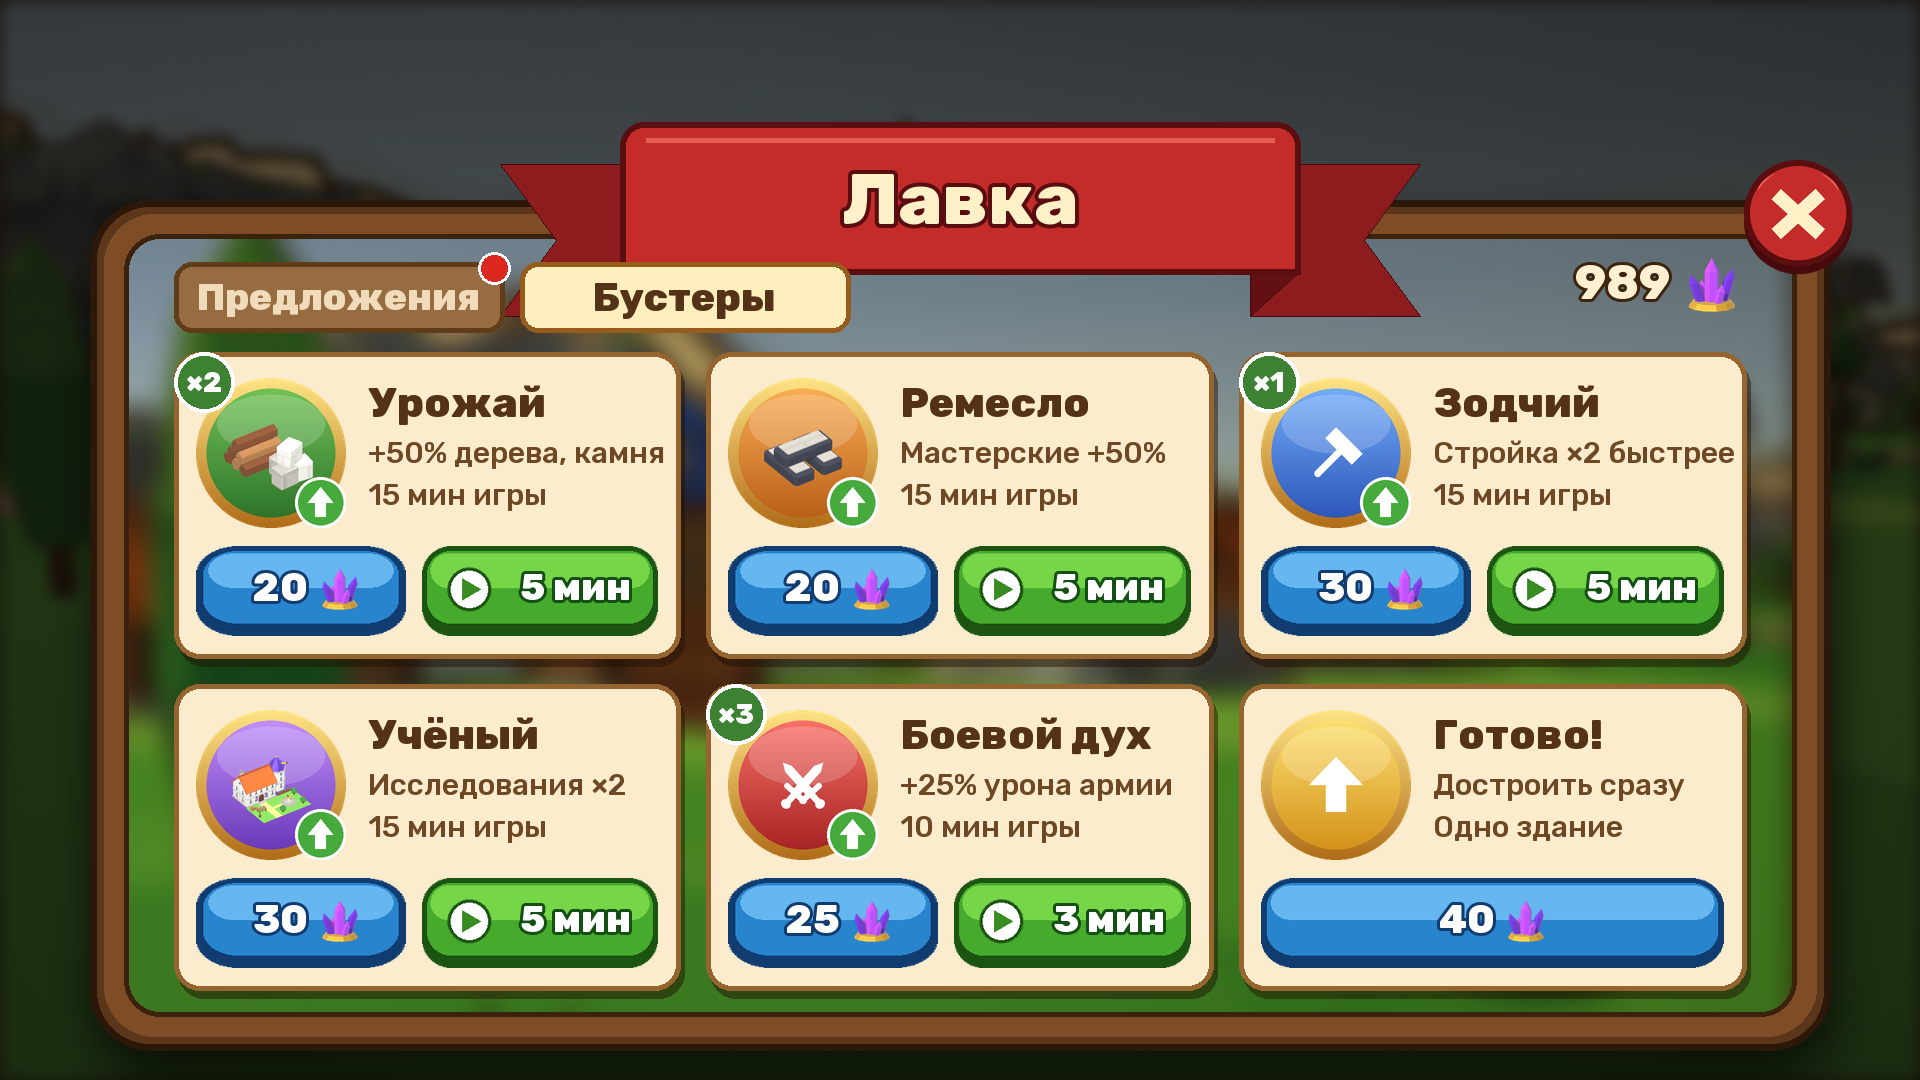
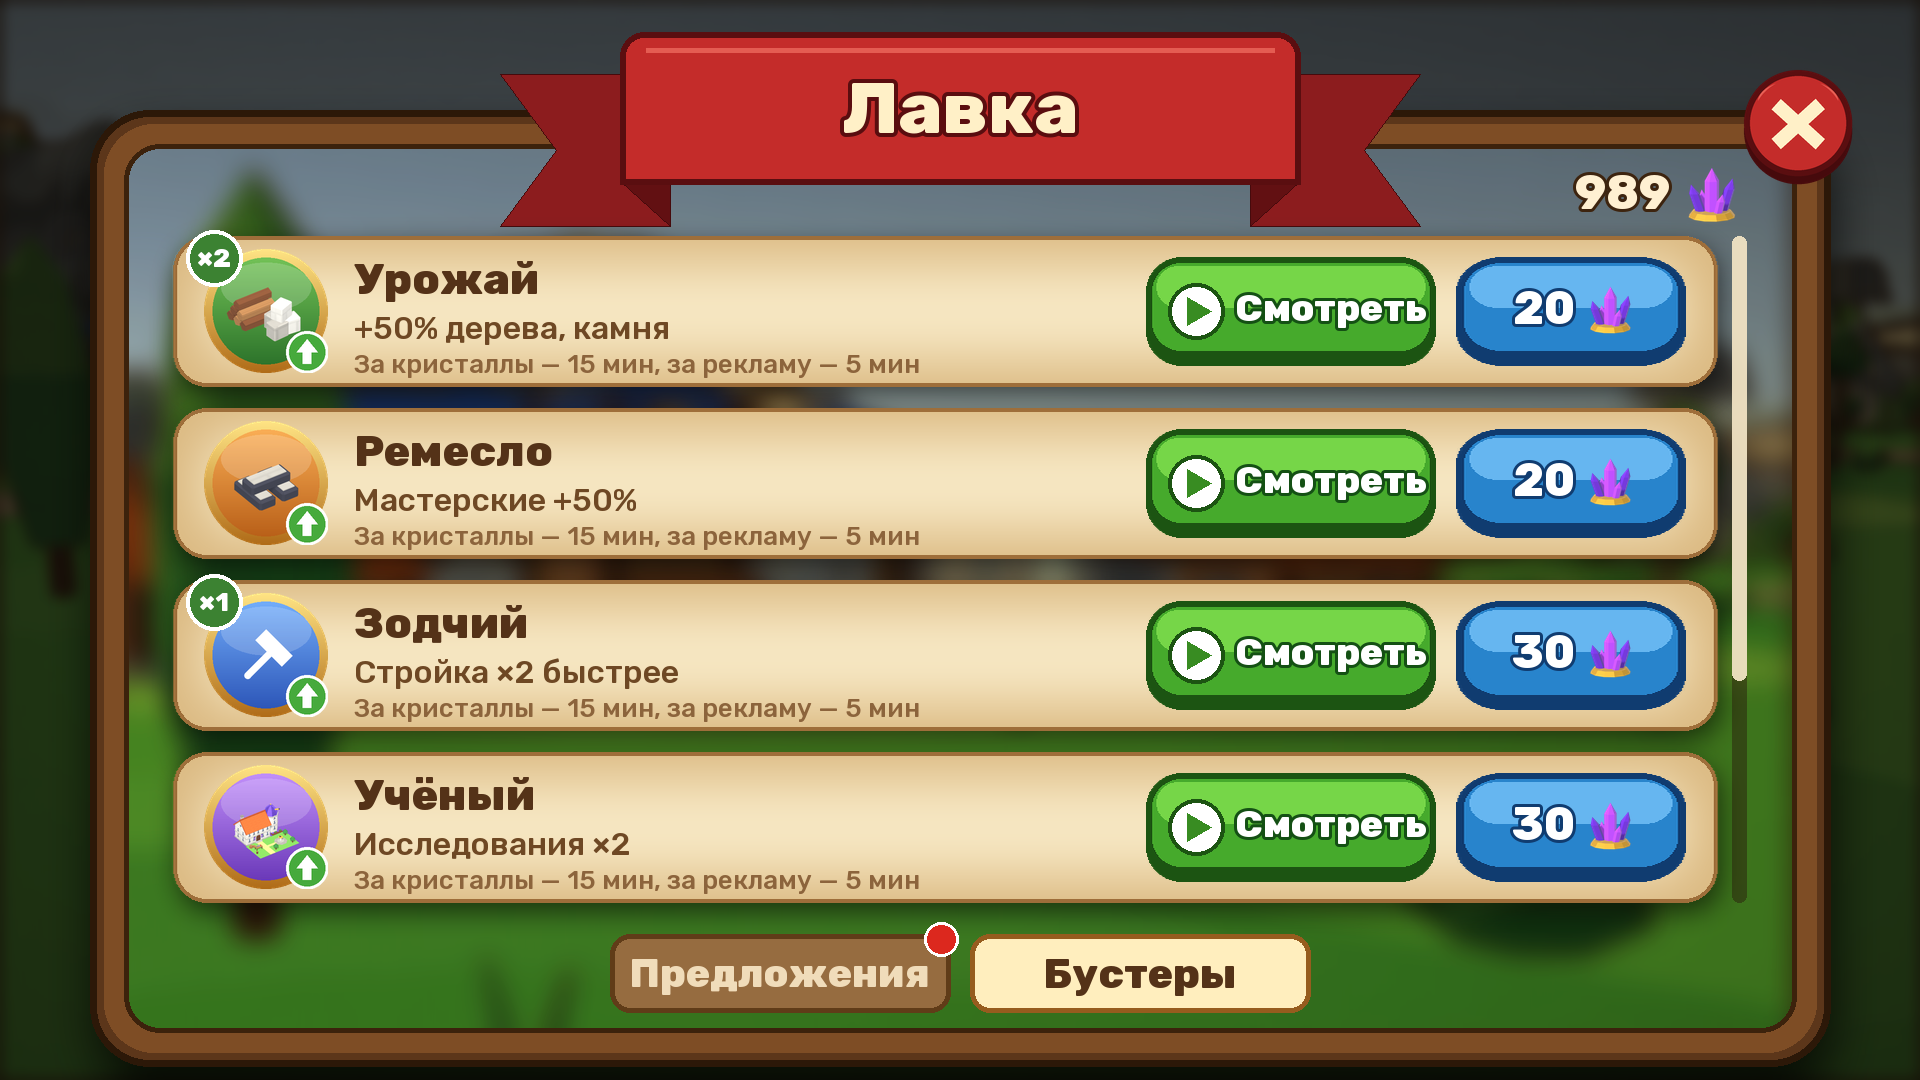
Boosters shop concept v2 (the user): taller window, tabs at the bottom centre, boosters as long strips, «▶ Смотреть» with the durations spelled out

diff --git a/Tools/store/booster_mockup.py b/Tools/store/booster_mockup.py
@@ -83,79 +83,94 @@ def backdrop(W, H):
 
 # ------------------------------------------------------------------ 1. the shop's «Бустеры» tab
 
+TALL_Y0, TALL_Y1 = 110, 1066       # the taller shop window (the user, 2026-11-11: tabs at the bottom)
+
+
+def tall_window(theme='summer'):
+    """The shop's frame drawn by offer_shop_art.window() at the taller size, into the scratch folder --
+    only that function is run (the art script writes the game's pictures when run whole)."""
+    src = open(m.R + 'Tools/store/offer_shop_art.py', encoding='utf-8').read()
+    ns = {'__file__': m.R + 'Tools/store/offer_shop_art.py'}
+    exec(src[:src.index('STRIPS = {')], ns)
+    tmp = os.environ.get('TEMP', '/tmp') + '/booster_mockup/'
+    os.makedirs(tmp + 'Resources/Shop', exist_ok=True)
+    ns['OUT'] = tmp
+    ns['window'](theme, Y0=TALL_Y0, Y1=TALL_Y1, name='Tall_')
+    return Image.open(tmp + 'Resources/Shop/Tall_' + theme + '.png').convert('RGBA'), (40, TALL_Y0 - 78 - 12)
+
+
 def shop():
-    import json
-    layout = json.load(open(m.SHOP + 'layout.json', encoding='utf-8'))
-    W, H = layout['reference']
+    W, H = 1920, 1080
     img = backdrop(W, H)
-    m.paste(img, m.SHOP + 'Resources/Shop/Window_summer.png', layout['window'], keep=False)
+    frame, at = tall_window()
+    img.alpha_composite(frame.crop((0, 0, frame.width, min(frame.height, H - at[1]))), at)
     d = ImageDraw.Draw(img)
-    tx = layout['title']
-    m.text(d, ((tx[0] + tx[2]) / 2, (tx[1] + tx[3]) / 2), 'Лавка', 72, (255, 240, 199), stroke=4, stroke_fill=(90, 13, 15))
-    ci = layout['counter_icon']
-    m.text(d, (ci[0] - 8, (ci[1] + ci[3]) / 2), '989', 48, (255, 240, 210), anchor='rm', stroke=3, stroke_fill=(61, 36, 15))
-    m.paste(img, m.CRYSTAL, ci)
-    m.paste(img, m.SHOP + 'Close.png', layout['close'])
+    X0, X1 = 90, 1830
+    IY0, IY1 = TALL_Y0 + 34, TALL_Y1 - 34
+    RY0, RY1 = TALL_Y0 - 78, IY0 + 40
+    m.text(d, (960, (RY0 + RY1) / 2), 'Лавка', 72, (255, 240, 199), stroke=4, stroke_fill=(90, 13, 15))
+    SX0, SX1 = X0 + 34 + 50, X1 - 34 - 50
+    m.text(d, (SX1 - 76, IY0 + 48), '989', 48, (255, 240, 210), anchor='rm', stroke=3, stroke_fill=(61, 36, 15))
+    m.paste(img, m.CRYSTAL, (SX1 - 68, IY0 + 14, SX1, IY0 + 82))
+    m.paste(img, m.SHOP + 'Close.png', (X1 - 92, TALL_Y0 - 44, X1 + 28, TALL_Y0 + 76))
     d = ImageDraw.Draw(img)
 
-    sx0, sx1 = layout['strips'][0][0], layout['strips'][0][2]
-    # two tabs over the strips' area: «Предложения» and «Бустеры» (picked)
+    # the boosters as long strips like the offers; more than four scroll (a bar on the right)
+    med_font = m.R + 'Assets/_Project/Resources/Fonts/Rubik-Medium.ttf'
+    stocks = [2, 0, 1, 0, 3, 0]
+    SH, top = 150, IY0 + 92
+    for k, (name, effect, mins, price, ad, colours, icons) in enumerate(BOOSTERS[:4]):
+        y0 = top + k * 172
+        box = (SX0, y0, SX1 - 30, y0 + SH)
+        m.paste(img, m.SHOP + 'Strip.png', (box[0] - 40, box[1] - 40, box[2] + 40, box[3] + 40), keep=False)
+        d = ImageDraw.Draw(img)
+        img.alpha_composite(medallion(124, colours, icons, arrow=mins > 0), (box[0] + 30, y0 + 13))
+        d = ImageDraw.Draw(img)
+        if stocks[k]:
+            bx, byy = box[0] + 40, y0 + 22
+            d.ellipse((bx - 28, byy - 28, bx + 28, byy + 28), fill=(60, 130, 50), outline='white', width=4)
+            m.text(d, (bx, byy), f'×{stocks[k]}', 26, 'white')
+        m.text(d, (box[0] + 180, y0 + 42), name, 44, INK, anchor='lm')
+        m.text(d, (box[0] + 180, y0 + 92), effect, 32, (110, 72, 36), anchor='lm', path=med_font)
+        if ad:
+            when = f'За кристаллы — {mins} мин, за рекламу — {ad} мин'
+        else:
+            when = 'Одно здание, сразу'
+        m.text(d, (box[0] + 180, y0 + 128), when, 26, (140, 100, 60), anchor='lm', path=med_font)
+        # the offers' own buttons and places: «▶ Смотреть» (green), the price (blue)
+        rx = box[2]
+        blue = (rx - 30 - 230, y0 + 21, rx - 30, y0 + 130)
+        m.paste(img, m.SHOP + 'ButtonBlue.png', blue, keep=False)
+        d = ImageDraw.Draw(img)
+        amount(d, img, blue[2] - 46, y0 + 72, price, 46, 'white', (16, 60, 112))
+        if ad:
+            green = (blue[0] - 20 - 290, y0 + 21, blue[0] - 20, y0 + 130)
+            m.paste(img, m.SHOP + 'ButtonGreen.png', green, keep=False)
+            m.paste(img, m.SHOP + 'Play.png', (green[0] + 20, y0 + 45, green[0] + 80, y0 + 105))
+            d = ImageDraw.Draw(img)
+            m.text(d, ((green[0] + 80 + green[2]) / 2, y0 + 72), 'Смотреть', 38, 'white', stroke=3, stroke_fill=(20, 80, 20))
+    # the scroll bar: 4 of 6 shown
+    bar_y0, bar_y1 = top, top + 3 * 172 + SH
+    m.over(img, lambda g: g.rounded_rectangle((SX1 - 14, bar_y0, SX1, bar_y1), 7, fill=(40, 24, 10, 120)))
+    m.over(img, lambda g: g.rounded_rectangle((SX1 - 14, bar_y0, SX1, bar_y0 + (bar_y1 - bar_y0) * 4 // 6), 7,
+                                              fill=(250, 236, 204, 230)))
+
+    # the tabs, bottom centre
+    d = ImageDraw.Draw(img)
+    tw, th = 340, 78
+    ty0 = IY1 - 20 - th
     tabs = (('Предложения', False), ('Бустеры', True))
-    tx0, ty0, tw, th = sx0, 262, 330, 70
     for i, (name, on) in enumerate(tabs):
-        x0 = tx0 + i * (tw + 16)
+        x0 = 960 - tw - 10 + i * (tw + 20)
         box = (x0, ty0, x0 + tw, ty0 + th)
         if on:
-            d.rounded_rectangle(box, 18, fill=(255, 238, 190), outline=(150, 92, 30), width=5)
-            m.text(d, ((box[0] + box[2]) / 2, (box[1] + box[3]) / 2), name, 40, INK)
+            d.rounded_rectangle(box, 20, fill=(255, 238, 190), outline=(150, 92, 30), width=5)
+            m.text(d, ((box[0] + box[2]) / 2, (box[1] + box[3]) / 2), name, 42, INK)
         else:
-            d.rounded_rectangle(box, 18, fill=(150, 108, 64), outline=(96, 60, 24), width=5)
-            m.text(d, ((box[0] + box[2]) / 2, (box[1] + box[3]) / 2), name, 38, (240, 220, 186))
-    # a red dot on «Предложения»: a free gift is waiting there
-    d.ellipse((tx0 + tw - 26, ty0 - 10, tx0 + tw + 6, ty0 + 22), fill=(220, 40, 30), outline='white', width=3)
-
-    gap = 26
-    cols, rows = 3, 2
-    gx0, gy0, gy1 = sx0, 352, 990
-    cw = (sx1 - sx0 - (cols - 1) * gap) / cols
-    ch = (gy1 - gy0 - (rows - 1) * gap) / rows
-    stocks = [2, 0, 1, 0, 3, 0]
-    for i, (name, effect, mins, price, ad, colours, icons) in enumerate(BOOSTERS):
-        c, r = i % cols, i // cols
-        x0, y0 = gx0 + c * (cw + gap), gy0 + r * (ch + gap)
-        box = (int(x0), int(y0), int(x0 + cw), int(y0 + ch))
-        m.over(img, lambda g: g.rounded_rectangle((box[0] + 4, box[1] + 8, box[2] + 4, box[3] + 8), 26, fill=(30, 15, 0, 120)))
-        d = ImageDraw.Draw(img)
-        d.rounded_rectangle(box, 26, fill=(250, 236, 204), outline=(150, 100, 46), width=5)
-        med = medallion(150, colours, icons, arrow=mins > 0)
-        img.alpha_composite(med, (box[0] + 22, box[1] + 26))
-        d = ImageDraw.Draw(img)
-        lx = box[0] + 194
-        m.text(d, (lx, box[1] + 50), name, 42, INK, anchor='lm')
-        m.text(d, (lx, box[1] + 100), effect, 30, (110, 72, 36), anchor='lm', path=m.R + 'Assets/_Project/Resources/Fonts/Rubik-Medium.ttf')
-        m.text(d, (lx, box[1] + 142), f'{mins} мин игры' if mins else 'Одно здание', 30, (110, 72, 36), anchor='lm',
-               path=m.R + 'Assets/_Project/Resources/Fonts/Rubik-Medium.ttf')
-        if stocks[i]:                                 # how many are kept: a badge on the medallion's top-left
-            bx, byy = box[0] + 30, box[1] + 30
-            d.ellipse((bx - 30, byy - 30, bx + 30, byy + 30), fill=(60, 130, 50), outline='white', width=4)
-            m.text(d, (bx, byy), f'×{stocks[i]}', 28, 'white')
-        # the buttons: crystals (blue), an ad for a shorter one (green)
-        by0, by1 = box[3] - 112, box[3] - 22
-        if ad:
-            blue = (box[0] + 22, by0, box[0] + 22 + 210, by1)
-            green = (blue[2] + 16, by0, box[2] - 22, by1)
-            m.paste(img, m.SHOP + 'ButtonBlue.png', blue, keep=False)
-            m.paste(img, m.SHOP + 'ButtonGreen.png', green, keep=False)
-            d = ImageDraw.Draw(img)
-            amount(d, img, blue[2] - 40, (by0 + by1) / 2 - 4, price, 40, 'white', (16, 60, 112))
-            m.paste(img, m.SHOP + 'Play.png', (green[0] + 22, by0 + 20, green[0] + 72, by1 - 24))
-            d = ImageDraw.Draw(img)
-            m.text(d, ((green[0] + 72 + green[2]) / 2, (by0 + by1) / 2 - 4), f'{ad} мин', 38, 'white', stroke=3, stroke_fill=(20, 80, 20))
-        else:
-            blue = (box[0] + 22, by0, box[2] - 22, by1)
-            m.paste(img, m.SHOP + 'ButtonBlueWide.png', blue, keep=False)
-            d = ImageDraw.Draw(img)
-            amount(d, img, (blue[0] + blue[2]) / 2 + 60, (by0 + by1) / 2 - 4, price, 40, 'white', (16, 60, 112))
+            d.rounded_rectangle(box, 20, fill=(150, 108, 64), outline=(96, 60, 24), width=5)
+            m.text(d, ((box[0] + box[2]) / 2, (box[1] + box[3]) / 2), name, 40, (240, 220, 186))
+    x0 = 960 - tw - 10
+    d.ellipse((x0 + tw - 26, ty0 - 12, x0 + tw + 8, ty0 + 22), fill=(220, 40, 30), outline='white', width=3)
     img.convert('RGB').save(OUT + 'Booster_Shop.png')
 
 

diff --git a/Design/features/monetization.md b/Design/features/monetization.md
@@ -214,6 +214,9 @@ reinstall or a new phone wipes it. Needs a cloud save (e.g. Google Play Games Sa
   дух, «Готово!» (instant finish); active boosters as a row of medallions with a time ring under the top
   bar (tap -> «Запасы»); a hint at the right moment (raid -> «Боевой дух», only if in stock, 8 s).
   Building look A (gold ground ring + rising motes + badge) or B (gold outline glow + badge).
+- **Shop v2 (the user):** the whole shop window TALLER, the tabs «Предложения» | «Бустеры» at the BOTTOM centre,
+  boosters as long strips like the offers (more than four scroll). The ad button reads «▶ Смотреть» (the
+  user did not get «▶ 5 мин»); the strip says «За кристаллы — 15 мин, за рекламу — 5 мин».
 - **Concepts:** `Tools/store/booster_mockup.py` -> `Design/store/Booster_Shop.png`, `Booster_Inventory.png`,
   `Booster_Hud.png` (icons are placeholder medallions; real ones rendered for approval).
 
